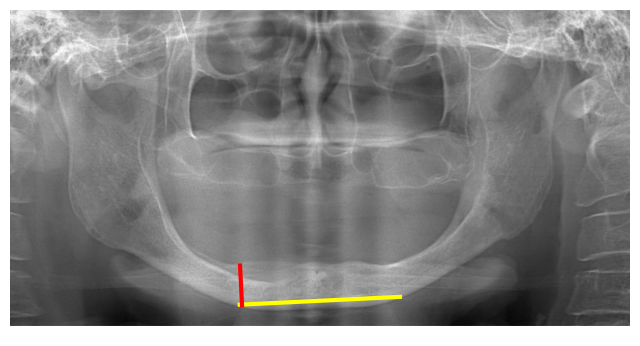
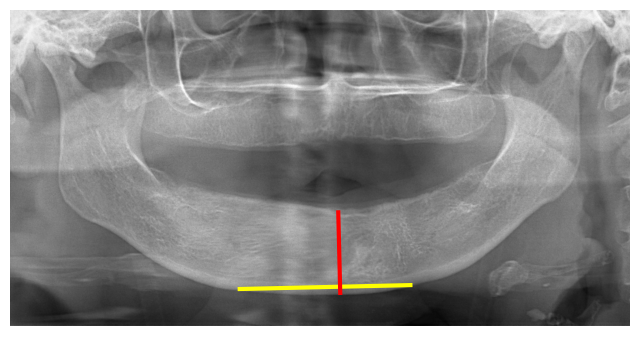
change sample

diff --git a/streamlit_ui.py b/streamlit_ui.py
@@ -74,11 +74,11 @@ with left:
     type=['png','jpg', 'jpeg'],
     accept_multiple_files=False
     )
-    with open("sample_image_input.png", "rb") as file:
+    with open("sample_image_input.JPG", "rb") as file:
         btn = st.download_button(
             label="Download image input sample",
             data=file,
-            file_name="sample_image_input.png",
+            file_name="sample_image_input.JPG",
             mime="image/png"
         )
     boneHeightImage = Image.open('boneHeightRange2.png')
@@ -234,11 +234,14 @@ def regionIsValid(path, h):
 if uploaded_data is not None:
     with st.spinner('Loading...'):
         imagePath = save_file(uploaded_data)     
-        open_cv_image = cv2.imread(imagePath, cv2.IMREAD_GRAYSCALE)
-        height, width = open_cv_image.shape[0], open_cv_image.shape[1]
-        open_cv_image = cv2.cvtColor(open_cv_image, cv2.COLOR_GRAY2RGB)
+        ori_input_image = cv2.imread(imagePath, cv2.IMREAD_GRAYSCALE)
 
-        t2 = A.Compose([A.Resize(height,width)])
+        ori_input_image = ori_input_image[25:556, 245:1295]
+
+        height, width = ori_input_image.shape[0], ori_input_image.shape[1]
+        open_cv_image = cv2.cvtColor(ori_input_image, cv2.COLOR_GRAY2RGB)
+
+        t2 = A.Compose([A.Resize(969,1908)])
     
         # bone severity classification
         tf_data = tf(open_cv_image)
@@ -275,8 +278,9 @@ if uploaded_data is not None:
             pred_data = Image.open(final_mask)
 
             rgb_final_mask= t2(image=rgb_final_mask)['image']
+            final_input_image = t2(image=ori_input_image)['image']
 
-            boneHeightC, boneHeightL, boneHeightR = bhm.getBoneHeightWithImage(imagePath, rgb_final_mask)
+            boneHeightC, boneHeightL, boneHeightR = bhm.getBoneHeightWithImage(final_input_image, rgb_final_mask)
 
             estSevCR = getEstSev(boneHeightR, "r")
             estSevCC = getEstSev(boneHeightC, "c")

diff --git a/boneHeightMeasurement.py b/boneHeightMeasurement.py
@@ -318,9 +318,8 @@ def getHeight(img,outputBg, contourCoorList, fileName, ori):
   height_cm = round(height_cm, 2)
   return height_cm
 
-def getBoneHeightWithImage(imagePath, maskRGB_arr):
-    ori = cv2.imread(imagePath)
-    ori = cv2.cvtColor(ori, cv2.COLOR_BGR2RGB)
+def getBoneHeightWithImage(ori_input_image, maskRGB_arr):
+    ori = cv2.cvtColor(ori_input_image, cv2.COLOR_BGR2RGB)
     image = maskRGB_arr.copy()
     rgb2mask(image)
 
